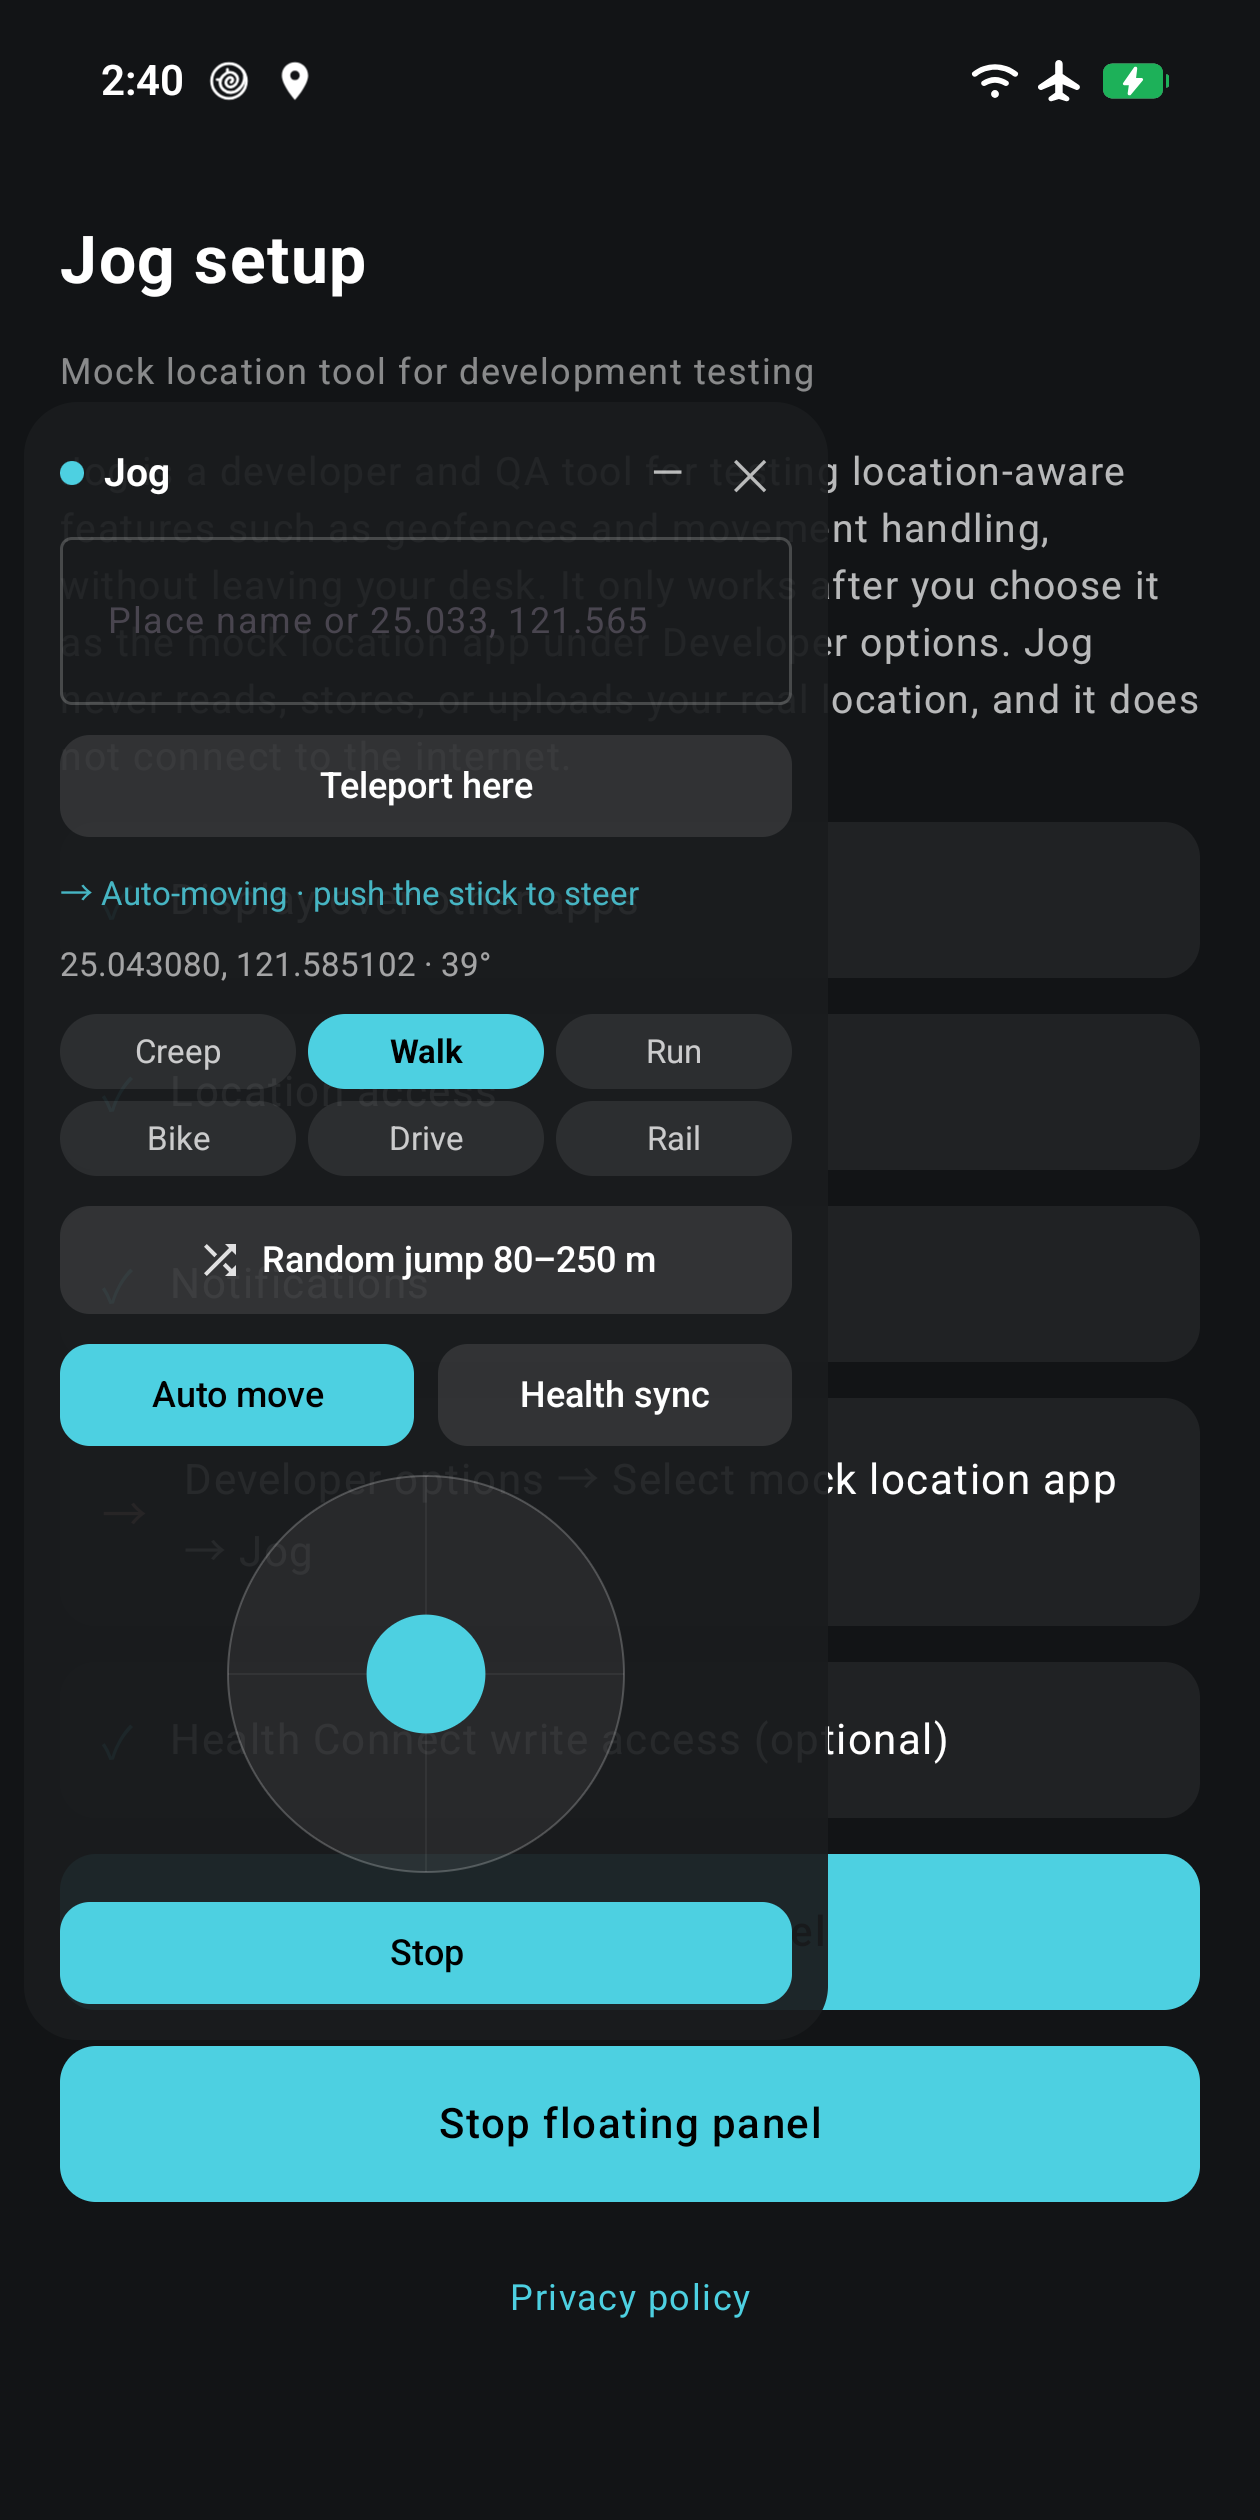
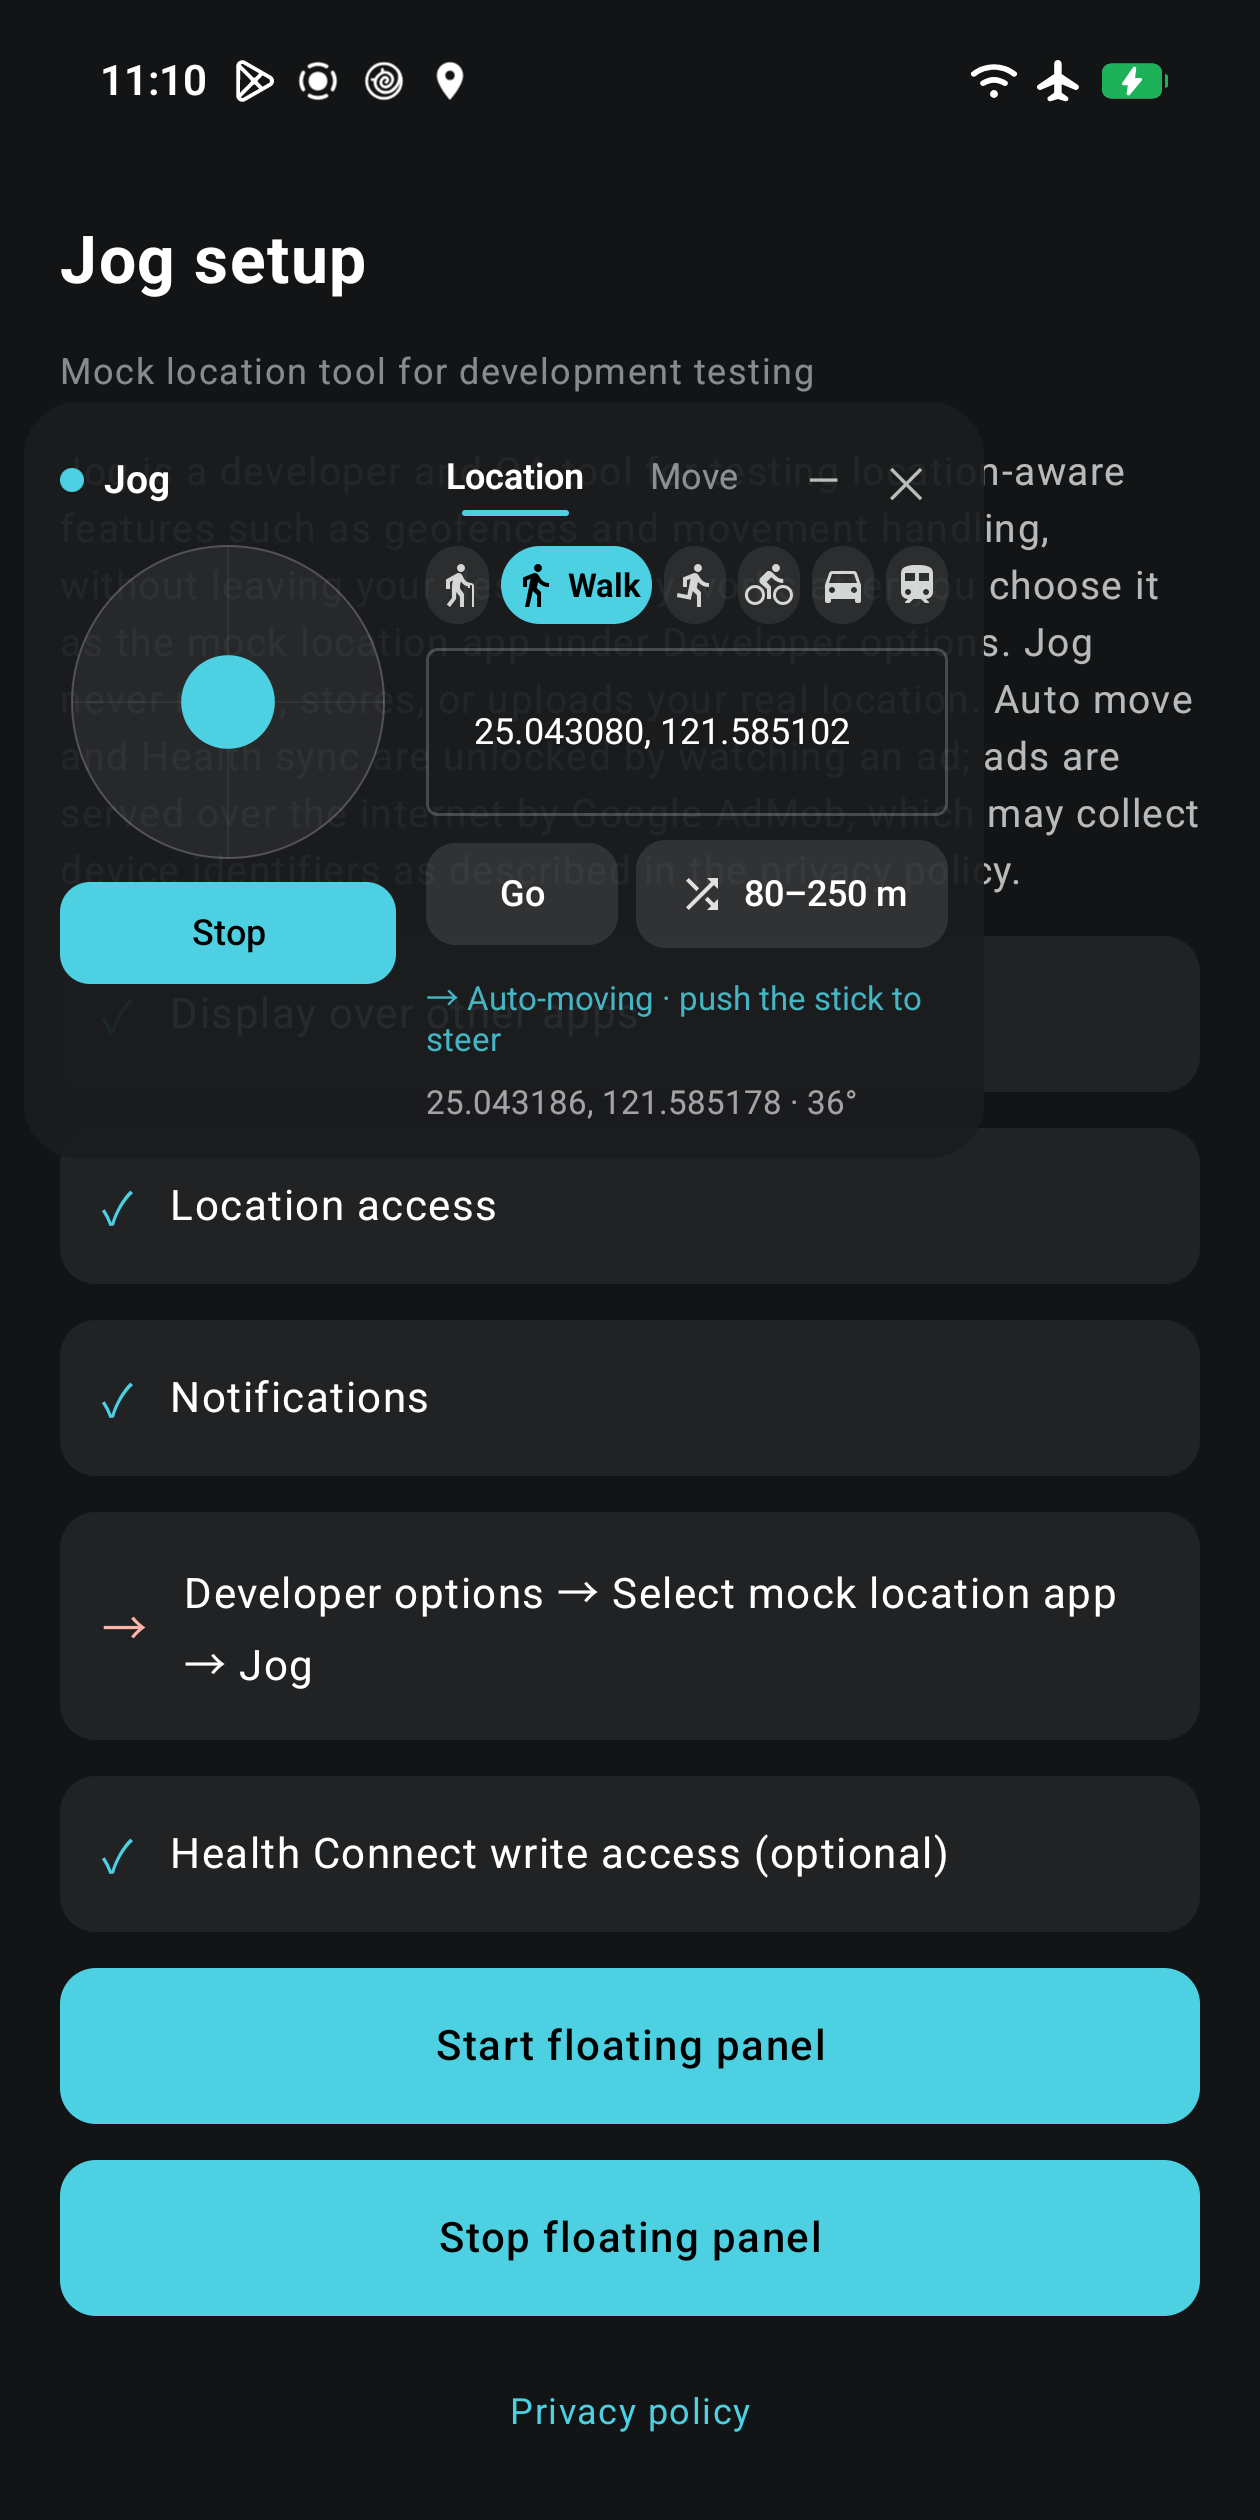
[JogApp] Refresh store screenshots and listing for the 3.1.0 landscape panel
[Description]
Store screenshots 02_auto_move and 03_health_sync (en and zh-TW) showed
the old tall panel; they now show the 3.1.0 landscape layout. File names
and size (1260x2520) are unchanged. 01_setup and 04_collapsed show screens
that did not change and are kept.

The full description in both languages now mentions the compact landscape
panel with the speed tiers always in view.

[Test]
- Full descriptions are 3001 (en) and 1082 (zh-TW) characters, under the
  4000 limit; the added sentence contains none of the words listed as off
  limits for the listing.
- Screenshots were taken from the debug build on device and the device was
  restored afterwards.

Not covered: the listing was not previewed in Play Console.

diff --git a/store/listing.md b/store/listing.md
@@ -29,7 +29,7 @@ Jog is a mock location tool for Android developers and QA testers. It feeds simu
 
 HOW IT WORKS
 • Enter a place name or latitude/longitude and teleport the simulated position there.
-• A floating panel with a joystick nudges the position in real time while the app under test stays in the foreground. Collapse the panel to a compact bubble and the joystick stays available.
+• A floating panel with a joystick nudges the position in real time while the app under test stays in the foreground. The panel uses a compact landscape layout that covers only a small part of the screen, with the speed tiers always in view. Collapse the panel to a compact bubble and the joystick stays available.
 • Six speed tiers, from a slow creep to rail speed, for testing movement at realistic rates.
 • Jump to a random nearby spot. The distance follows the speed tier: about 80–250 m when walking, up to 5–15 km at rail speed.
 • Auto move: the simulated position roams on its own at the selected speed tier, turning gradually like a real walk or drive. Push the joystick at any time to steer.
@@ -82,7 +82,7 @@ Jog 是給 Android 開發者與 QA 測試人員用的模擬定位工具。它把
 
 運作方式
 • 輸入地名或經緯度，把模擬位置瞬移到那裡。
-• 懸浮面板上的搖桿可以在受測 App 停留在前景時即時微調位置。面板收合成小泡泡後，搖桿依然可以用。
+• 懸浮面板上的搖桿可以在受測 App 停留在前景時即時微調位置。面板採橫式精簡版面，只佔螢幕一小塊，速度檔一直顯示在面板上。面板收合成小泡泡後，搖桿依然可以用。
 • 六個速度檔次，從蝸行到高鐵，以合理的速率測試移動。
 • 隨機跳到附近。距離跟著速度檔走：步行約 80–250 公尺，高鐵可達 5–15 公里。
 • 自動移動：模擬位置依目前的速度檔自行隨機移動，像真的走路或開車一樣逐漸轉彎，隨時可以推搖桿接手方向。
